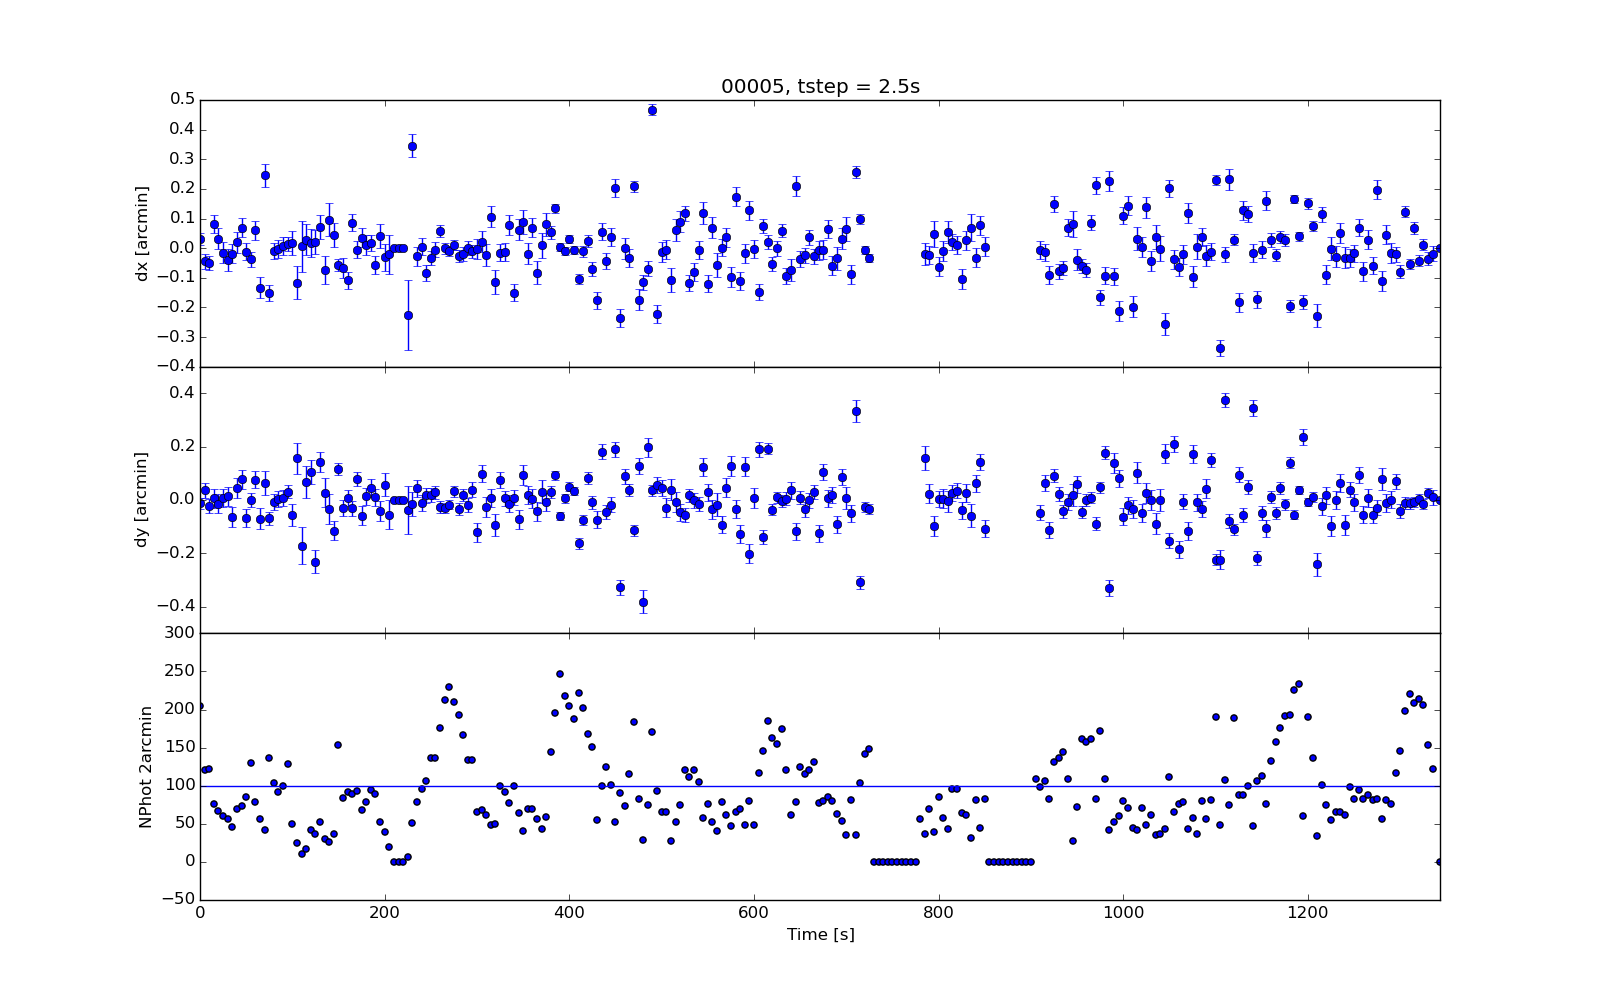
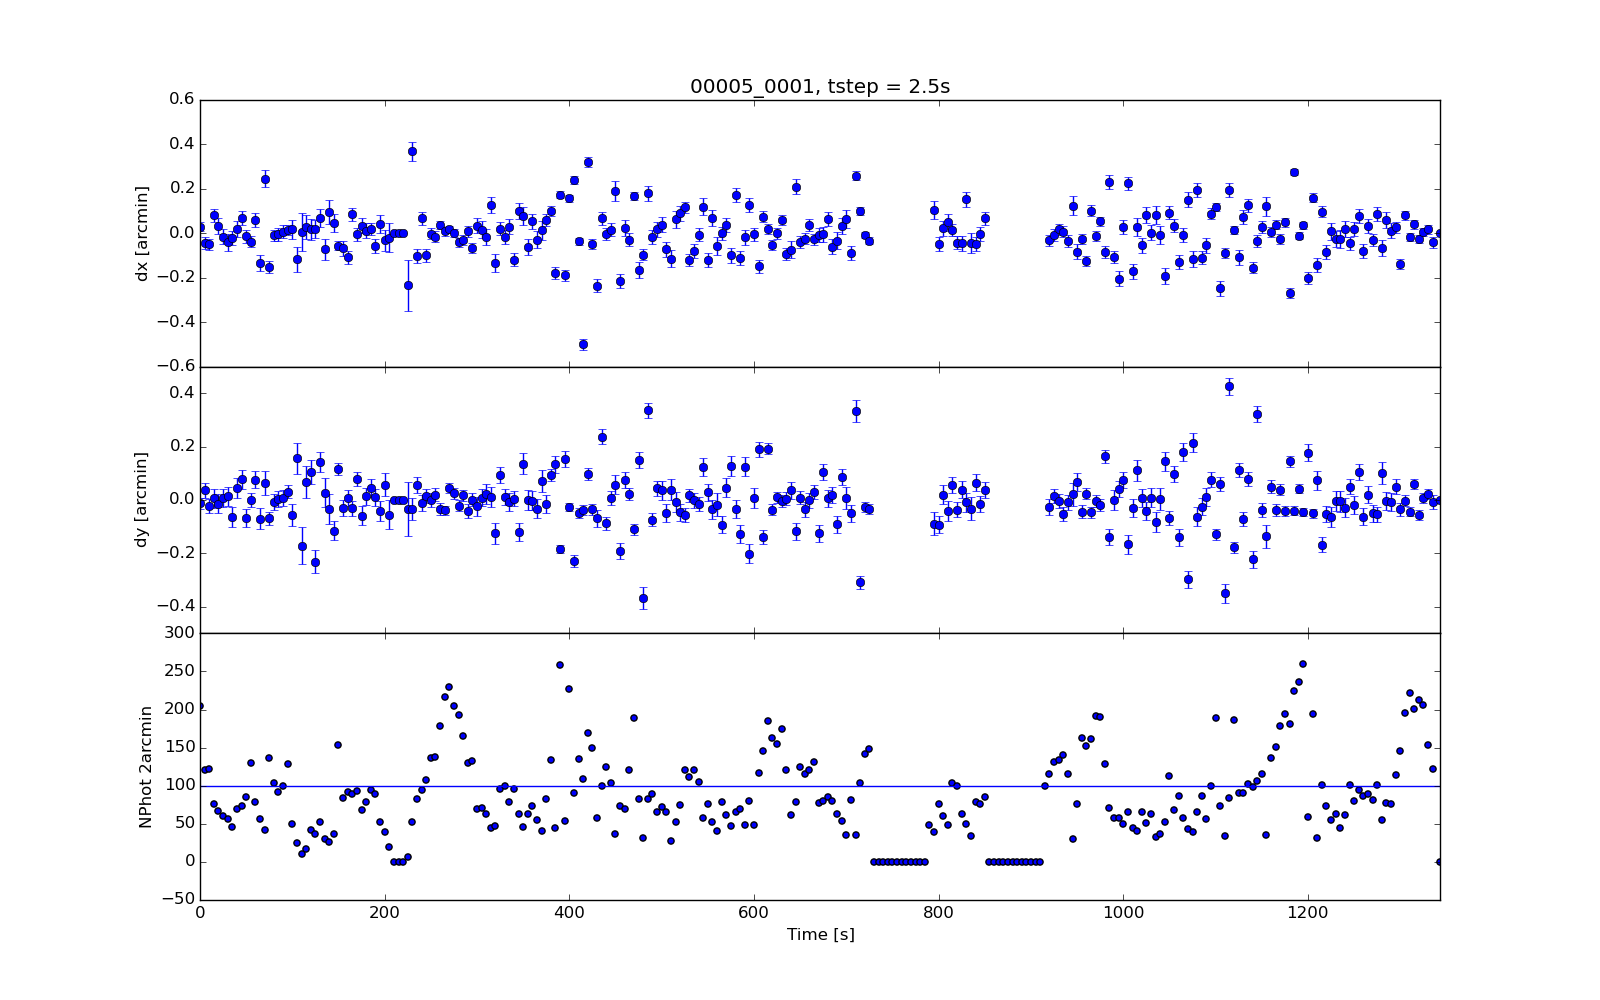
More 2.5s plots, apply offset once

diff --git a/pipeline/sourcefinder.py b/pipeline/sourcefinder.py
@@ -32,7 +32,7 @@ path = "../corrcsv/"
 lines = np.loadtxt("../filelists/csv_galcorr.txt", dtype = 'string')
 
 fix = 1.
-skyfield = 100 #what skyfield?
+skyfield = 20 #what skyfield?
 
 # 0,20,60,78,100,120,130,150,180,190,210,220,240,280,300,330,360,390,420,440
 
@@ -72,6 +72,8 @@ for offsetrun in range(10):
 	if off == 1.:
 		offsetpath = '../dxdyoffsets/'
 		if os.path.exists('../dxdyoffsets/'+str(lines[skyfield])[:10]+'offset25.fits'):
+			if offsetrun == 0:
+				os.remove('../dxdyoffsets/'+str(lines[skyfield])[:10]+'offset25.fits')	
 			offsetfile = fits.open(offsetpath+lines[skyfield][:10]+'offset25.fits')[1].data
 	print 'offsetrun =', offsetrun
 
@@ -354,7 +356,7 @@ for offsetrun in range(10):
 		if off == 0.:
 			hdu.writeto('../dxdyoffsets/'+str(lines[skyfield])[:10]+'offset25.fits')
 	
-		if off == 1.:
+		if ((off == 1.) & (offsetrun == 0.)):
 			if os.path.exists('../dxdyoffsets/'+str(lines[skyfield])[:10]+'offset25.fits'):
 				os.remove('../dxdyoffsets/'+str(lines[skyfield])[:10]+'offset25.fits')
 	
